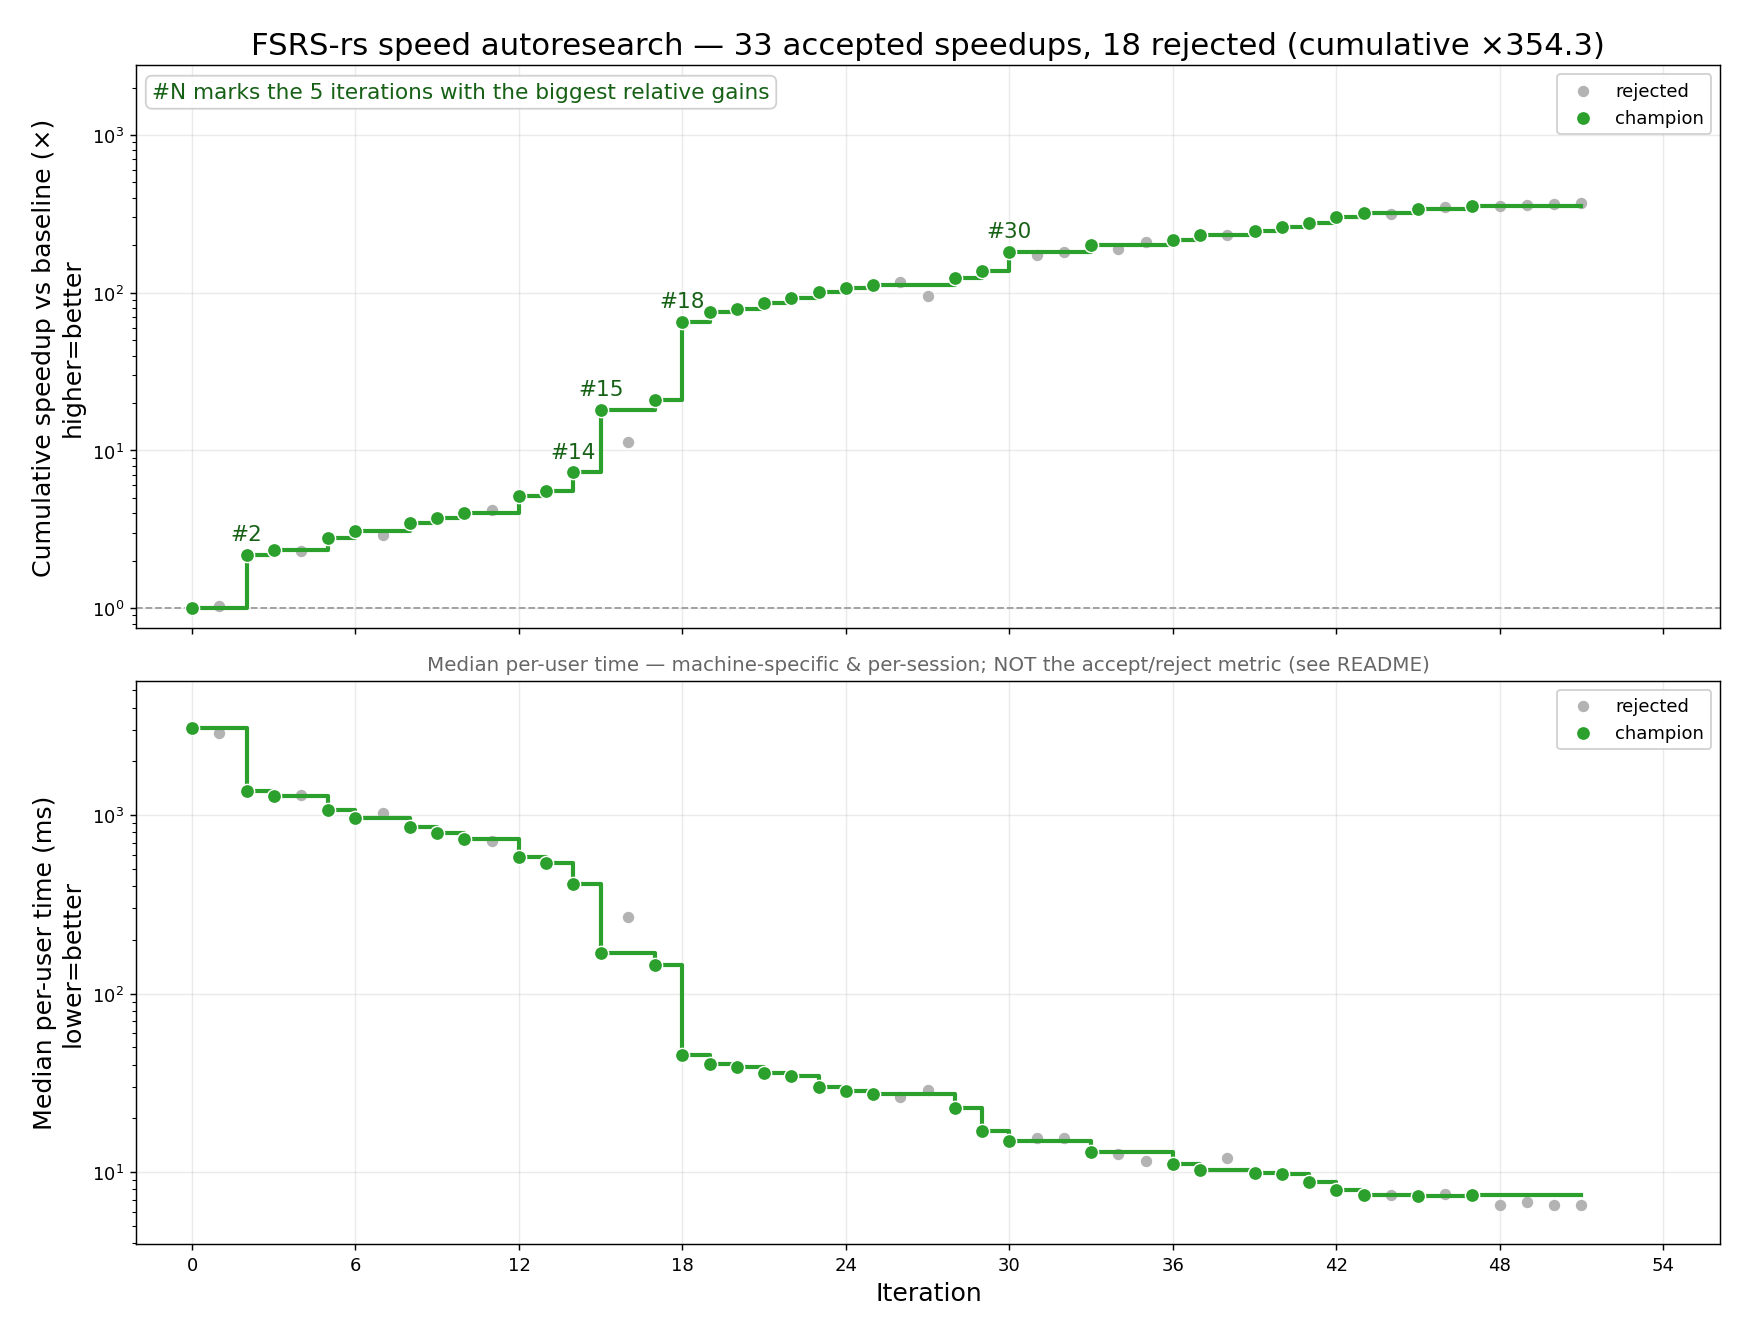
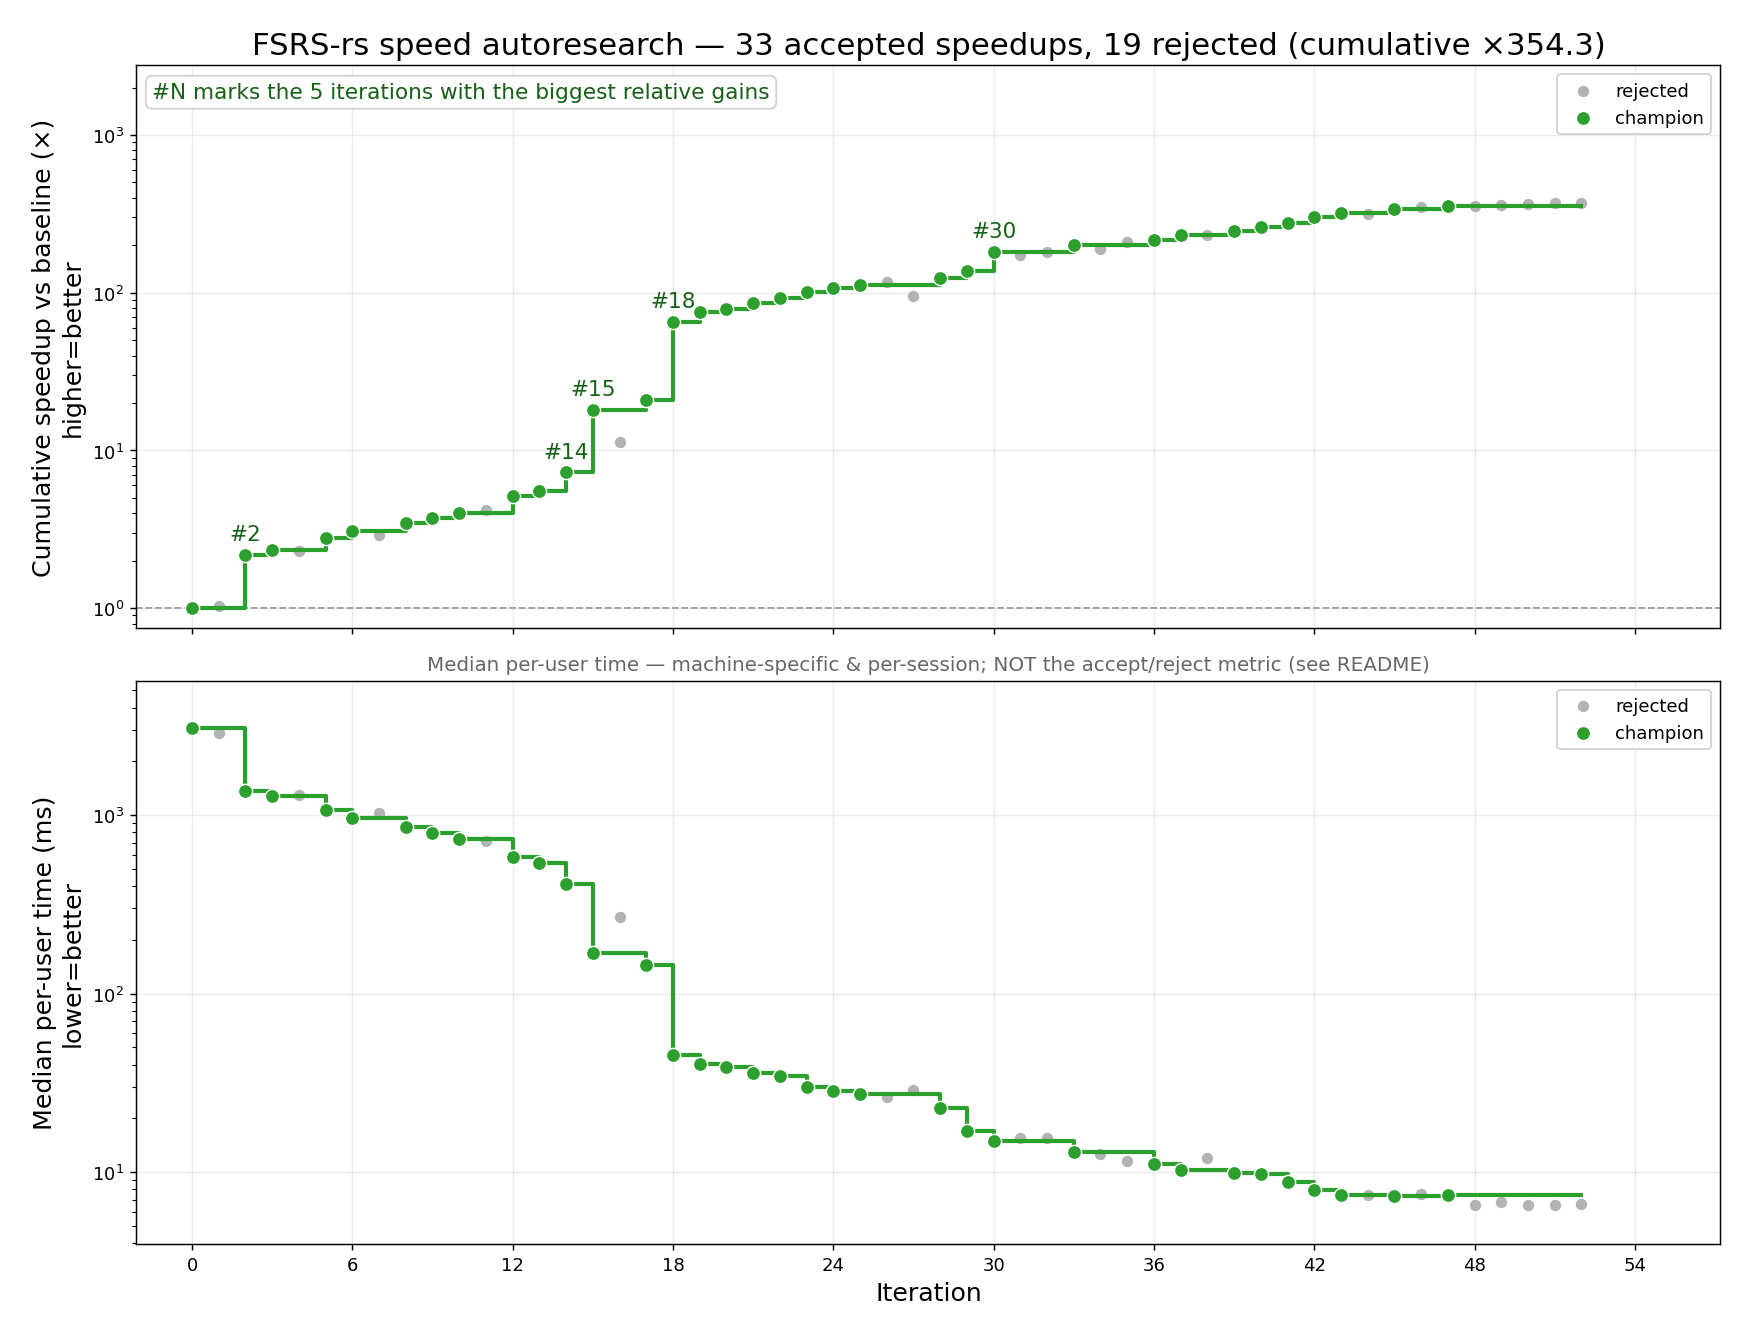
iter52 REJECTED (x1.048, kept for stacking): groups claimed in order and summed as they finish

diff --git a/fsrs-rs/src/training.rs b/fsrs-rs/src/training.rs
@@ -1747,8 +1747,9 @@ struct GradShared<'a> {
     job: AtomicU64,
     batch: AtomicUsize,
     w: [AtomicU32; 34],
-    done: AtomicUsize,
     out: Vec<[AtomicU32; 34]>,
+    /// ready[g] = the job sequence whose group g is stored in out[g].
+    ready: Vec<AtomicU32>,
     /// The prefix-items, once the helper has laid out every batch: freed a block at a time by a
     /// thread that would otherwise wait (see free_some).
     trash: Mutex<Vec<FSRSItem>>,
@@ -1790,8 +1791,10 @@ impl GradShared<'_> {
             if self.job.compare_exchange_weak(v, v + 1, Ordering::AcqRel, Ordering::Acquire).is_err() {
                 continue;
             }
-            // Longest groups first (cards are length-sorted within a batch): better balance.
-            let g = n - 1 - k;
+            // In group order, so the main thread can add each group's gradient as soon as it is
+            // ready. (A batch's cards are length-sorted, so its groups are about equally long; the
+            // last group, the one most often short (4-lane tail), comes last.)
+            let g = k;
             // A last group of at most 4 cards runs on 4 lanes: the same per-lane arithmetic, and the
             // 4 empty lanes' gradient is exactly zero.
             let gg = if g == n - 1 && hb.cols % 8 != 0 && hb.cols % 8 <= 4 {
@@ -1806,7 +1809,7 @@ impl GradShared<'_> {
             for (o, x) in self.out[g].iter().zip(gg) {
                 o.store(x.to_bits(), Ordering::Relaxed);
             }
-            self.done.fetch_add(1, Ordering::Release);
+            self.ready[g].store(seq, Ordering::Release);
         }
     }
 
@@ -1938,8 +1941,8 @@ fn train<B: AutodiffBackend>(
         job: AtomicU64::new(0),
         batch: AtomicUsize::new(0),
         w: std::array::from_fn(|_| AtomicU32::new(0)),
-        done: AtomicUsize::new(0),
         out: (0..max_bsz / 8).map(|_| std::array::from_fn(|_| AtomicU32::new(0))).collect(),
+        ready: (0..max_bsz / 8).map(|_| AtomicU32::new(0)).collect(),
         trash: Mutex::new(Vec::new()),
     };
     let mut caches = (Vec::new(), Vec::new());
@@ -1983,7 +1986,6 @@ fn train<B: AutodiffBackend>(
                     a.store(x.to_bits(), Ordering::Relaxed);
                 }
                 shared.batch.store(bi, Ordering::Relaxed);
-                shared.done.store(0, Ordering::Relaxed);
                 seq += 1;
                 shared.job.store((seq as u64) << 32, Ordering::Release);
             }
@@ -2018,13 +2020,14 @@ fn train<B: AutodiffBackend>(
                 // groups split over the two threads (see GradShared).
                 let wc = crate::analytic::wconsts(w_vec);
                 shared.work(seq, w_vec, &wc, &mut caches);
-                let n = hb.bsz / 8;
-                while shared.done.load(Ordering::Acquire) < n {
-                    if !shared.free_some() {
-                        std::hint::spin_loop();
+                // The groups in group order, each as soon as it is ready (so the adds overlap the
+                // helper's last group).
+                for (group, ready) in shared.out.iter().zip(&shared.ready).take(hb.bsz / 8) {
+                    while ready.load(Ordering::Acquire) != seq {
+                        if !shared.free_some() {
+                            std::hint::spin_loop();
+                        }
                     }
-                }
-                for group in &shared.out[..n] {
                     for (t, o) in total_grad.iter_mut().zip(group) {
                         *t += f32::from_bits(o.load(Ordering::Relaxed)) as f64;
                     }

diff --git a/result/history.md b/result/history.md
@@ -56,6 +56,7 @@ Accept metric: **median per-user speed_ratio ≥ 1.05** (constraint 12) AND **sp
 | 49 | 7 | 7 | 1.018 | 11258 | 11317 | 1.005 | 1.013 | ✓ | rejected | iter48 plus stab backward and curve forward reordered so values die early |
 | 50 | 7 | 6 | 1.036 | 11258 | 11304 | 1.004 | 1.010 | ✓ | rejected | iter49 plus items freed in idle waits and first step in its own struct |
 | 51 | 7 | 6 | 1.045 | 11258 | 11339 | 1.007 | 1.018 | ✓ | rejected | iter50 plus presized plan map, counting sort by length, main lays out first batch |
+| 52 | 7 | 7 | 1.048 | 11258 | 11345 | 1.008 | 1.019 | ✓ | rejected | iter51 plus groups claimed in order, main adds each group as it finishes |
 
 **Cumulative speed_ratio (product of accepted): ×354.263** — upward-biased (winner's curse); anchor periodically vs iter-0 baseline.
 
